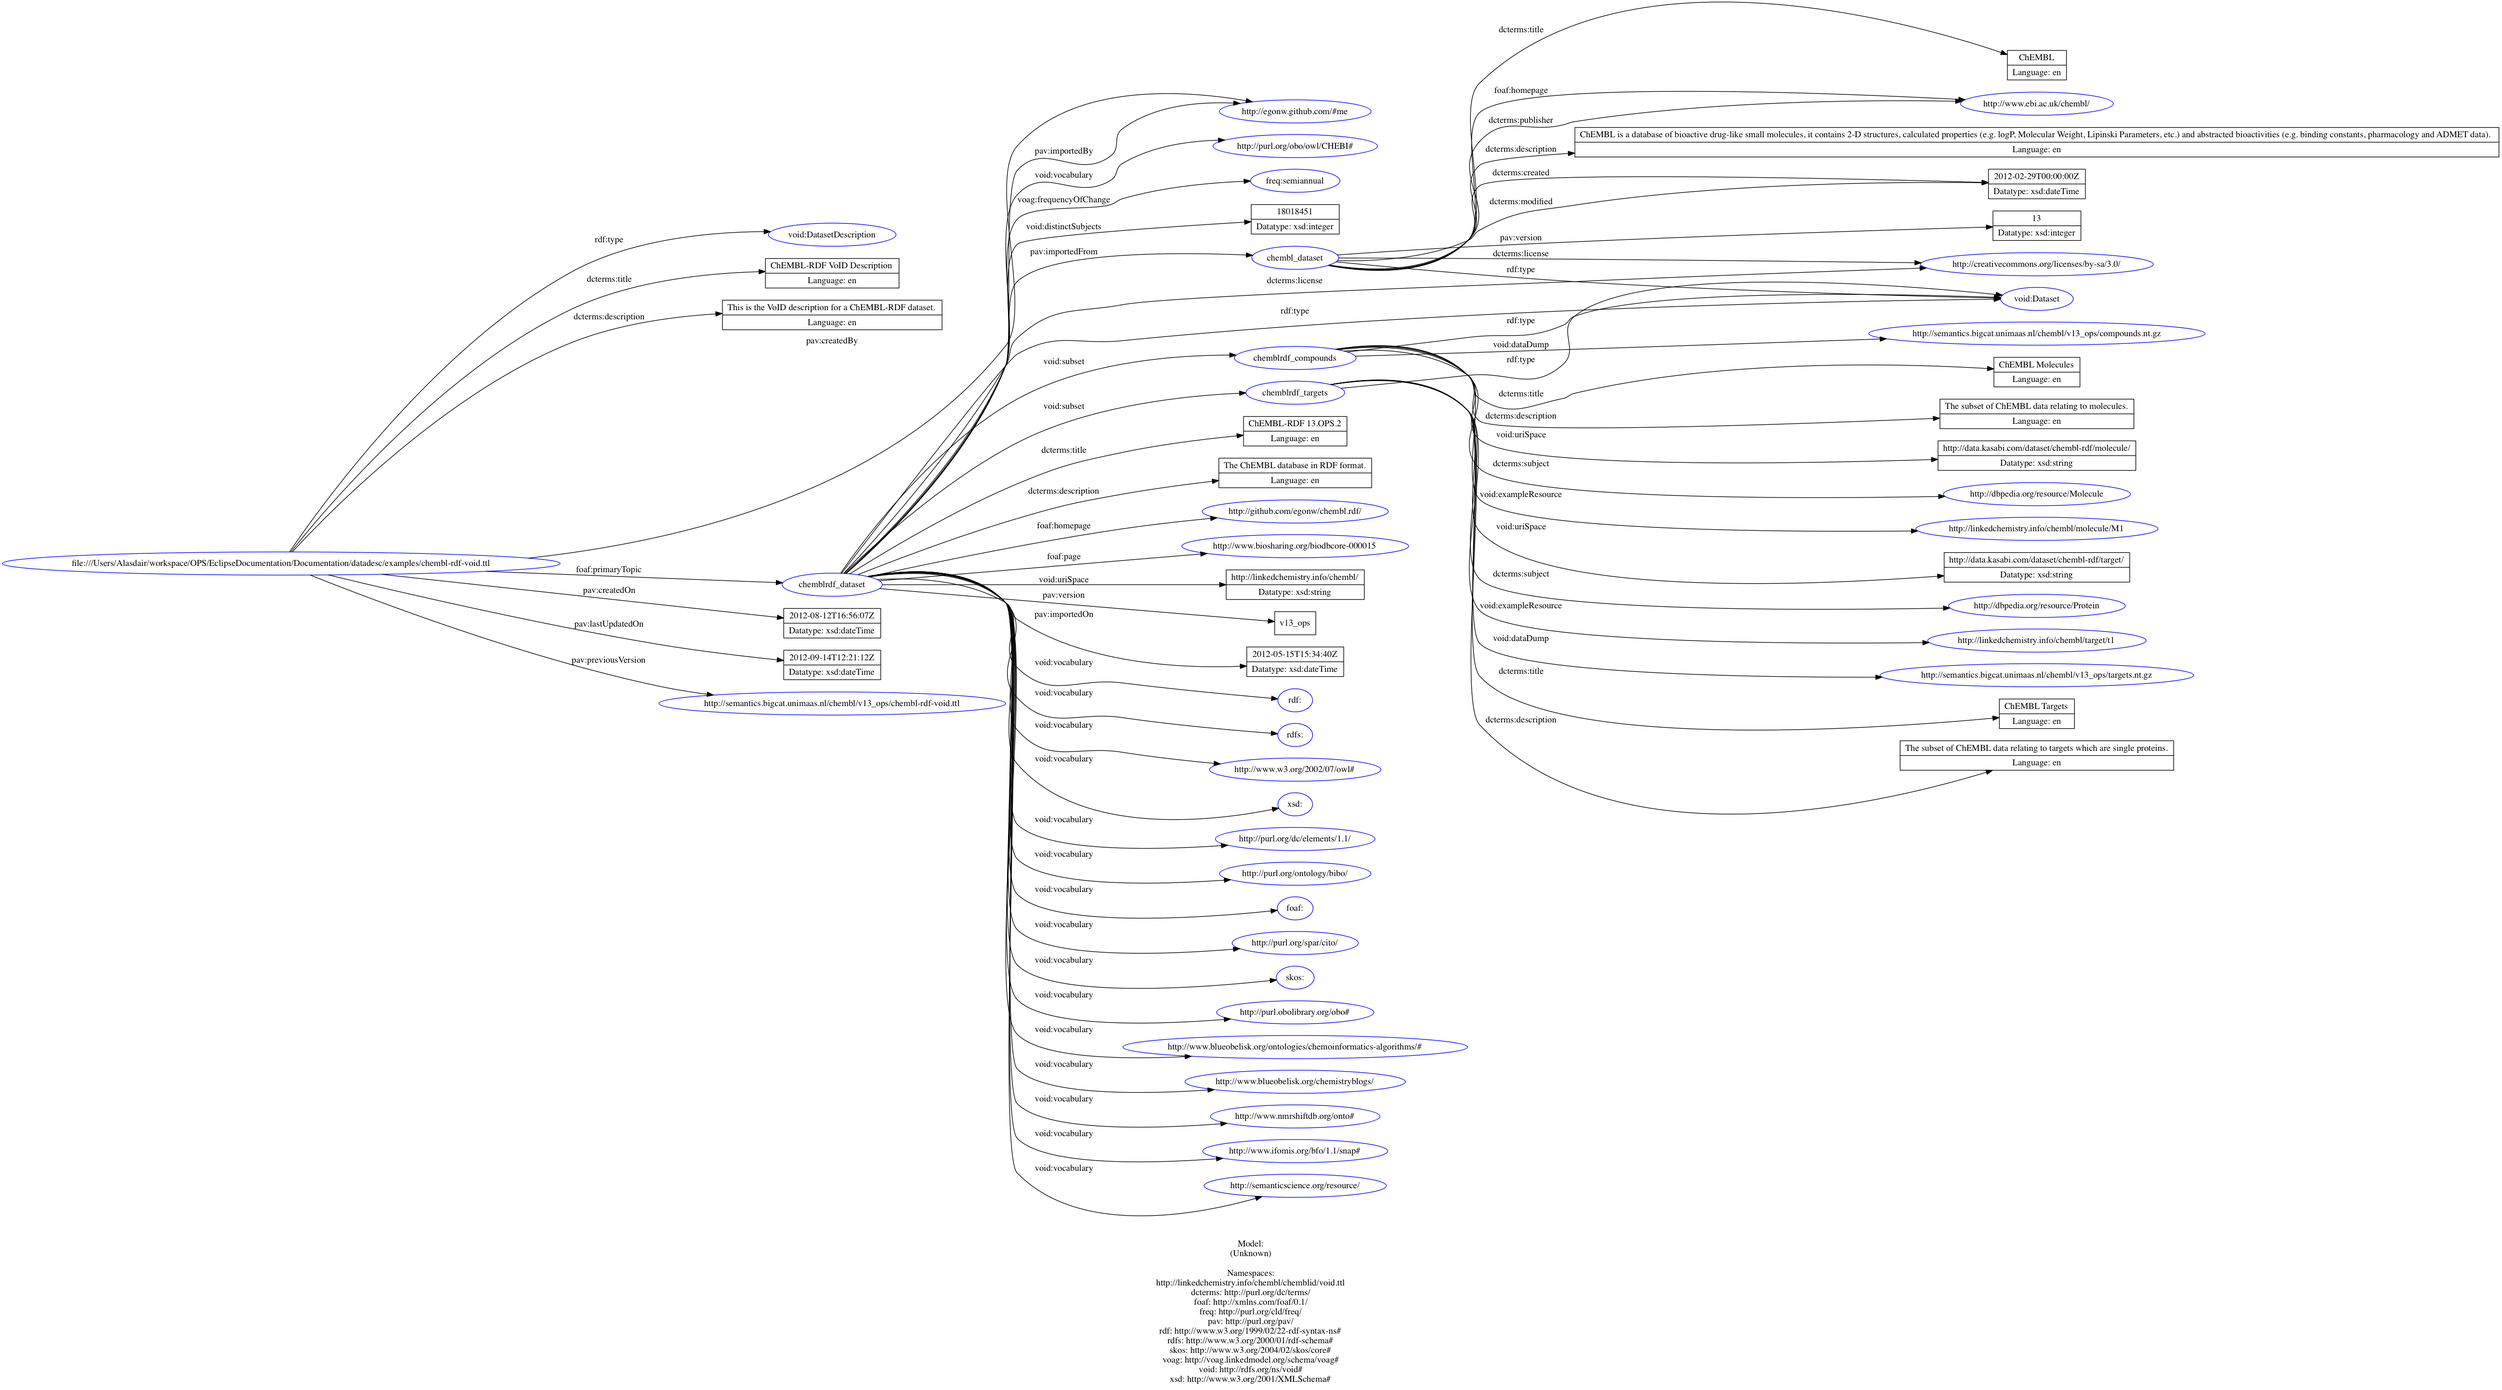
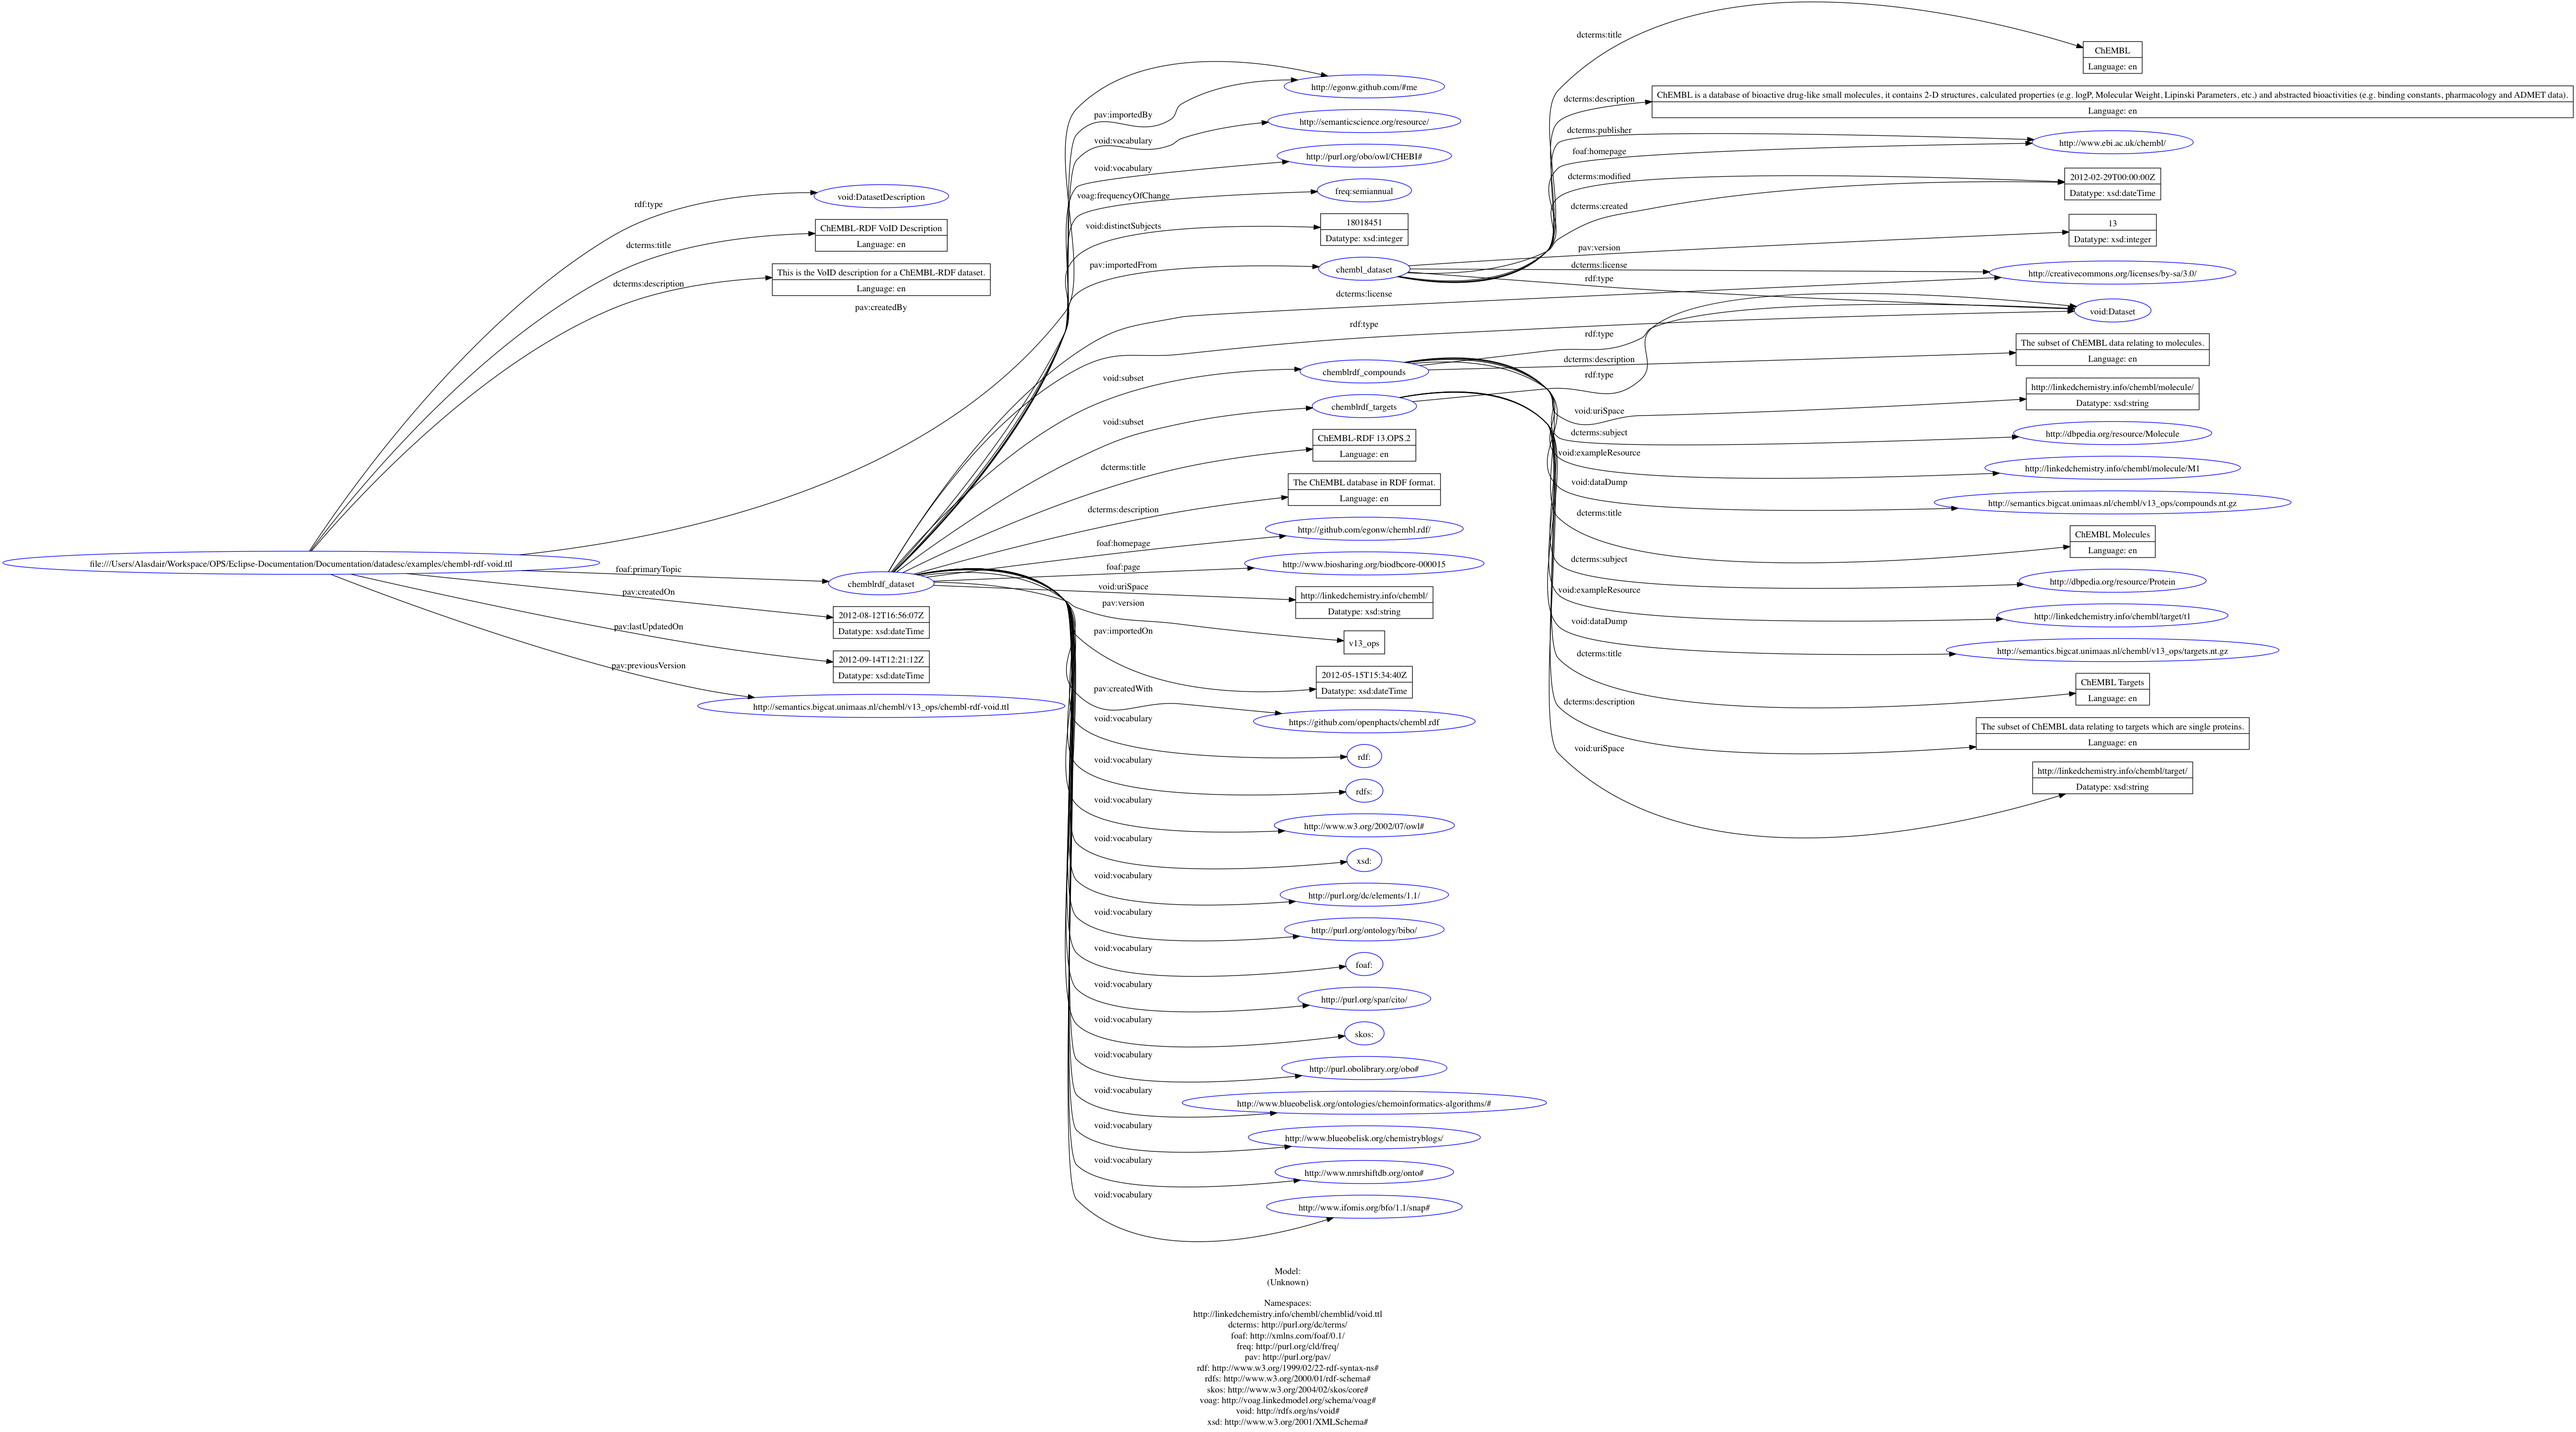
RESOLVED - issue DOC-125: void:...target should point to linkset sepecific void:dataset https://openphacts2011.atlassian.net/browse/DOC-125
Added example createdWith usage into ChEMBL-RDF

Fixed uriSpaces still pointing to kasabi namespaces

diff --git a/datadesc/index.html b/datadesc/index.html
@@ -1886,6 +1886,7 @@
     pav:importedFrom :chembl_dataset;
     pav:importedBy &lt;http://egonw.github.com/#me&gt; ;
     pav:importedOn "2012-05-15T15:34:40Z"^^xsd:dateTime;
+    pav:createdWith &lt;https://github.com/openphacts/chembl.rdf&gt;;
 # Subsets
     void:subset :chemblrdf_compounds, :chemblrdf_targets ;
 # Vocabularies, topics, resources
